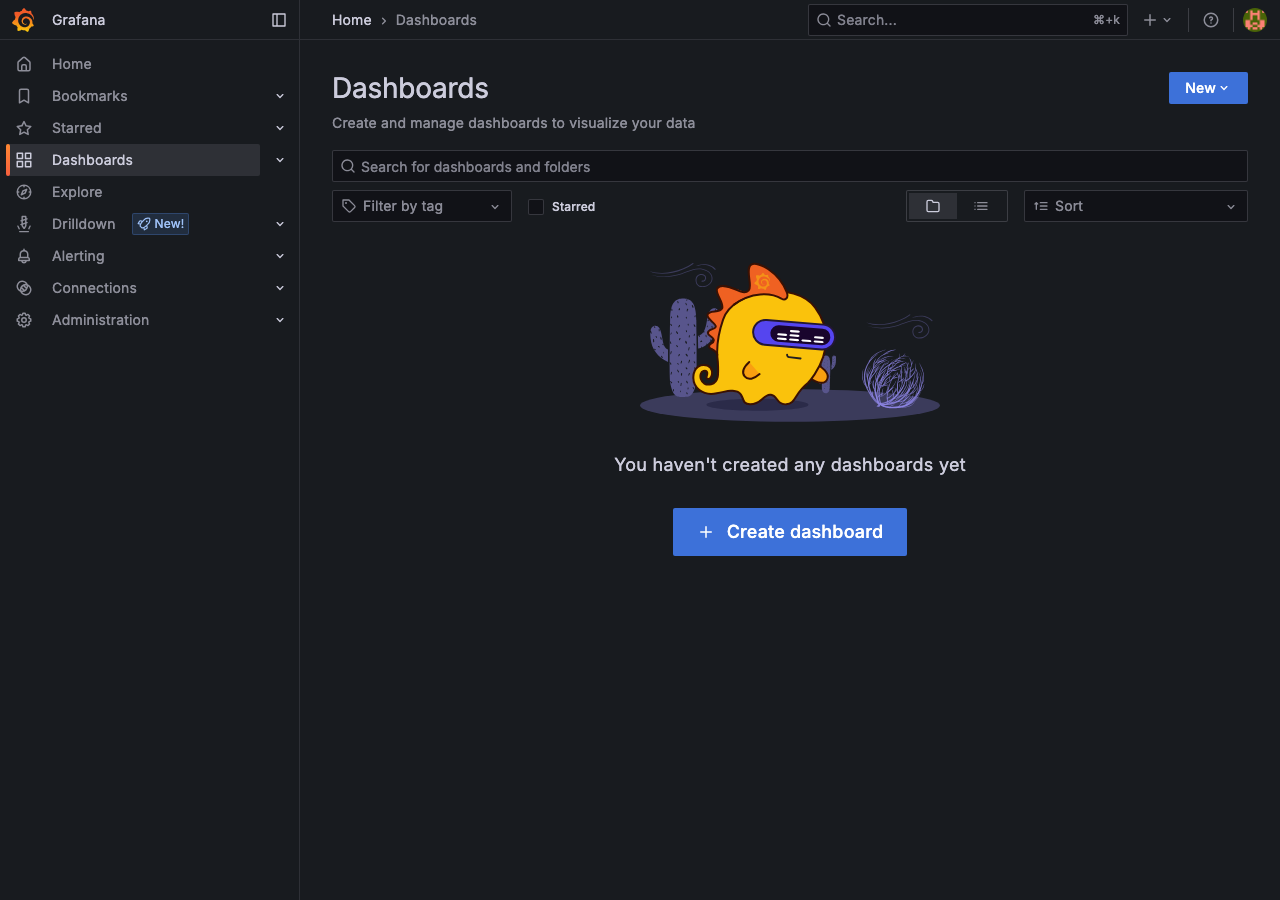
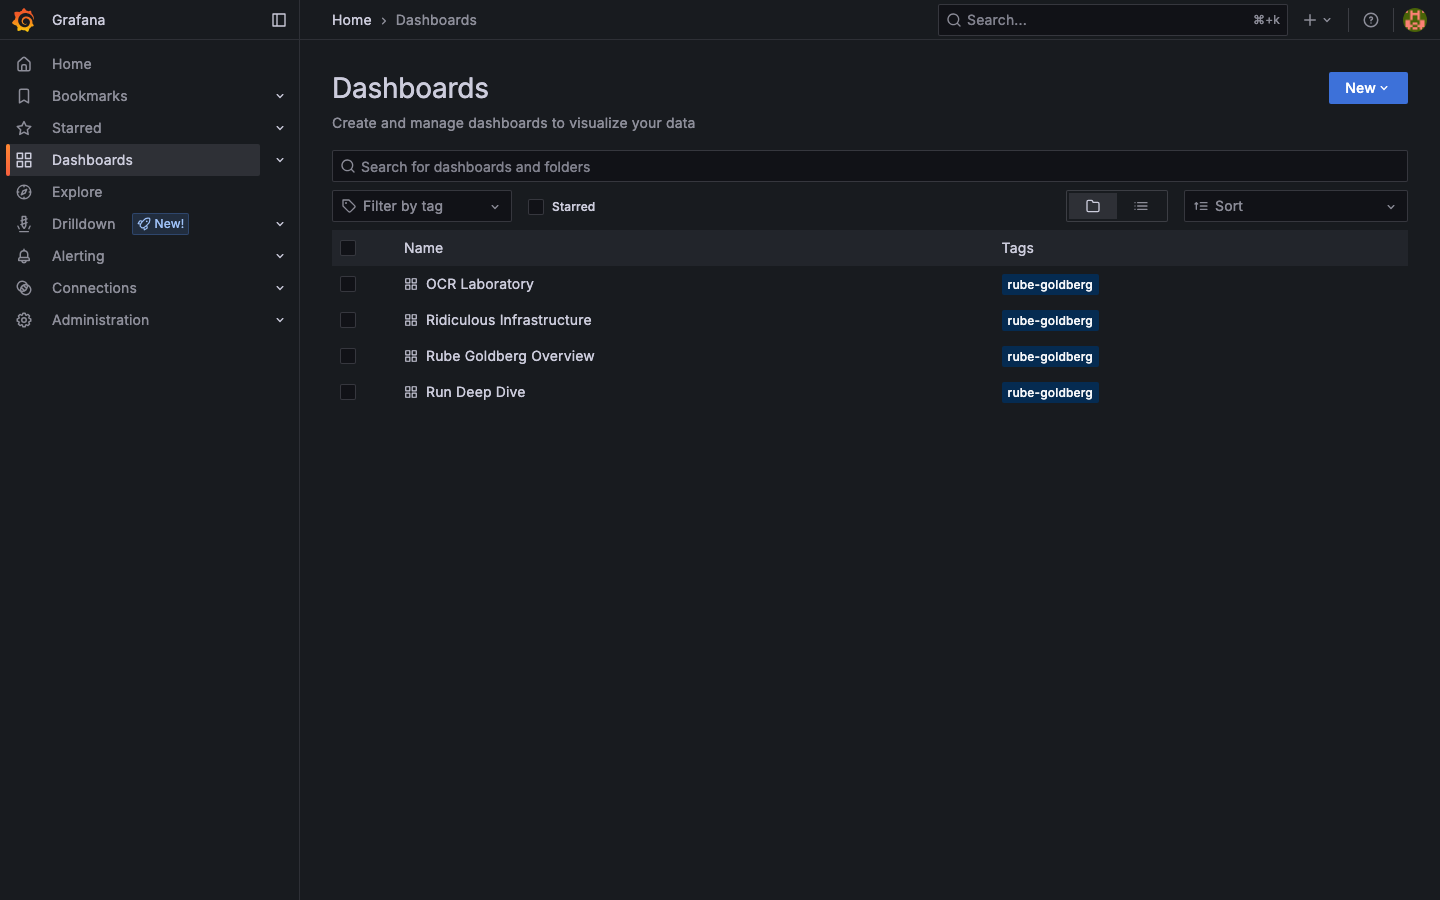
feat(ui/docs): polish artifact inspector EXTRA, fix Grafana provisioning, expand README with WOW→WTF screenshots
- Artifact Inspector now matches Web Shell EXTRA: dark glass, gradient header, floating dots, same violet→cyan theme
- Grafana dashboards fixed: add uid to each dashboard JSON (rg-overview, rg-infra, rg-ocr-lab, rg-deep-dive) and mount datasource.yml/dashboard.yml as subPaths so provisioning succeeds (was reading from wrong directory)
- Dashboards now visible via /api/search and /dashboards (4 provisioned)
- README expanded: per-screenshot sections with WOW→WTF narrative, Milestone 12 EXTRA quote, port-forward table, and 8 Playwright captures
- Captured new screenshots: inspector landing/run now 271K/222K WOW vs 23K plain, web-shell 134K SUCCEEDED, grafana list 68K with 4 tags
- Run-orchestrator: typed RunListResponse to avoid heterogeneous map serialization
- Verified: 2 SUCCEEDED runs (793bf62a, dd421e86) via go -C cmd/rghw run . run --api-url http://localhost:8080

diff --git a/services/run-orchestrator-kotlin/src/main/kotlin/dev/rghw/orchestrator/Application.kt b/services/run-orchestrator-kotlin/src/main/kotlin/dev/rghw/orchestrator/Application.kt
@@ -655,7 +655,7 @@ fun isValidUtf8(value: String): Boolean =
     }
 
 suspend fun handleListRuns(call: ApplicationCall) {
-    val list =
+    val fromMemory =
         runs.values
             .sortedByDescending { it.createdAt }
             .map { state ->
@@ -666,8 +666,62 @@ suspend fun handleListRuns(call: ApplicationCall) {
                     message = state.message,
                     links = buildLinks(state.runId),
                 )
+            }.toMutableList()
+
+    // Also include runs that are only in Redis (survive restart) — scan via direct Redis connection
+    try {
+        val redisUrl = Services.redisUrl()
+        val client = RedisClient.create(redisUrl)
+        val conn = client.connect()
+        try {
+            val sync = conn.sync()
+            val keys = sync.keys("run:*:result") ?: emptyList<String>()
+            for (k in keys) {
+                val runId = k.removePrefix("run:").removeSuffix(":result")
+                if (fromMemory.any { it.runId == runId }) continue
+                val status = sync.get("run:$runId") ?: "SUCCEEDED"
+                val createdAt = sync.get("run:$runId:createdAt") ?: Instant.now().toString()
+                val msg = sync.get("run:$runId:message") ?: expectedTexts[runId] ?: "HELLO WORLD"
+                fromMemory.add(
+                    RunListItemResponse(
+                        runId = runId,
+                        status = status,
+                        createdAt = createdAt,
+                        message = msg,
+                        links = buildLinks(runId),
+                    ),
+                )
             }
-    call.respond(RunListResponse(runs = list))
+            // also include plain run:* without :result (for PREPROCESSING etc.)
+            val plainKeys = sync.keys("run:*") ?: emptyList<String>()
+            for (k in plainKeys) {
+                if (k.endsWith(":result") || k.endsWith(":createdAt") || k.endsWith(":message")) continue
+                val runId = k.removePrefix("run:")
+                if (fromMemory.any { it.runId == runId }) continue
+                if (runId.contains(":")) continue
+                val status = sync.get(k) ?: continue
+                if (status == "SUCCEEDED" || status == "FAILED") continue // already via :result path
+                val createdAt = sync.get("run:$runId:createdAt") ?: Instant.now().toString()
+                val msg = sync.get("run:$runId:message") ?: expectedTexts[runId] ?: "HELLO WORLD"
+                fromMemory.add(
+                    RunListItemResponse(
+                        runId = runId,
+                        status = status,
+                        createdAt = createdAt,
+                        message = msg,
+                        links = buildLinks(runId),
+                    ),
+                )
+            }
+        } finally {
+            conn.close()
+            client.shutdown()
+        }
+    } catch (_: Exception) {
+    }
+
+    val sorted = fromMemory.sortedByDescending { it.createdAt }
+    call.respond(RunListResponse(runs = sorted))
 }
 
 suspend fun handleGetRun(call: ApplicationCall) {

diff --git a/services/artifact-inspector-ruby/lib/artifact_inspector_server.rb b/services/artifact-inspector-ruby/lib/artifact_inspector_server.rb
@@ -6,39 +6,84 @@ require_relative 'artifact_inspector'
 set :port, ENV.fetch('PORT', 4568)
 set :bind, '0.0.0.0'
 
+# rubocop:disable Metrics/BlockLength
 get '/' do
   content_type :html
   <<~HTML
     <!DOCTYPE html>
-    <html><head><meta charset="utf-8"><title>Artifact Inspector</title>
-    <style>body{font-family:helvetica,arial,sans-serif;margin:2rem;max-width:700px}input{padding:.4rem;width:320px}button{padding:.4rem .8rem;margin-left:.5rem}</style>
+    <html><head><meta charset="utf-8"><title>Artifact Inspector — Rube Goldberg Hello World</title>
+    <meta name="viewport" content="width=device-width,initial-scale=1">
+    <style>
+      *{box-sizing:border-box}
+      body{font-family:Inter,system-ui,helvetica,arial,sans-serif;margin:0;min-height:100vh;background:radial-gradient(1200px 600px at 20% -10%, #6d28d9 0%, transparent 60%),radial-gradient(1000px 500px at 100% 0%, #06b6d4 0%, transparent 55%),linear-gradient(180deg,#0f172a 0%,#020617 100%);color:#e2e8f0;display:flex;align-items:center;justify-content:center;padding:2rem}
+      .card{width:min(720px,100%);background:rgba(15,23,42,0.7);backdrop-filter:blur(12px);border:1px solid rgba(148,163,184,0.15);border-radius:16px;box-shadow:0 20px 60px rgba(0,0,0,0.5), inset 0 1px 0 rgba(255,255,255,0.08);overflow:hidden}
+      .header{padding:1.25rem 1.5rem;display:flex;align-items:center;gap:.75rem;background:linear-gradient(90deg,rgba(109,40,217,0.5),rgba(6,182,214,0.4));border-bottom:1px solid rgba(148,163,184,0.15)}
+      .logo{width:36px;height:36px;border-radius:10px;background:linear-gradient(135deg,#8b5cf6,#22d3ee);display:grid;place-items:center;font-weight:900;color:white;box-shadow:0 4px 16px rgba(109,40,217,0.5)}
+      h1{margin:0;font-size:1.15rem;letter-spacing:-.02em}
+      .sub{font-size:.85rem;opacity:.7;margin:0}
+      .body{padding:1.5rem}
+      .hero{font-size:.95rem;line-height:1.6;opacity:.85;margin:0 0 1rem}
+      .glass{display:flex;gap:.5rem;background:rgba(30,41,59,0.6);border:1px solid rgba(148,163,184,0.15);border-radius:12px;padding:.5rem}
+      input{flex:1;background:rgba(2,6,23,0.6);border:1px solid rgba(148,163,184,0.2);color:#f1f5f9;border-radius:8px;padding:.6rem .8rem;outline:none}
+      input:focus{border-color:#22d3ee;box-shadow:0 0 0 3px rgba(34,211,238,0.2)}
+      button{background:linear-gradient(135deg,#8b5cf6,#06b6d4);color:white;border:0;border-radius:8px;padding:.6rem 1rem;font-weight:700;cursor:pointer;box-shadow:0 4px 16px rgba(109,40,217,0.4)}
+      button:hover{filter:brightness(1.05)}
+      .meta{margin-top:1rem;display:flex;gap:1rem;flex-wrap:wrap;font-size:.8rem;opacity:.6}
+      .meta code{background:rgba(148,163,184,0.15);padding:.15rem .35rem;border-radius:4px}
+      .tip{margin-top:1rem;background:rgba(6,182,214,0.08);border:1px solid rgba(6,182,214,0.2);border-radius:10px;padding:.75rem 1rem;font-size:.85rem}
+      .tip a{color:#22d3ee}
+      .particles{position:fixed;inset:0;pointer-events:none;overflow:hidden}
+      .dot{position:absolute;width:4px;height:4px;background:rgba(34,211,238,0.5);border-radius:50%;animation:float 12s infinite}
+      @keyframes float{from{transform:translateY(110vh)}to{transform:translateY(-10vh)}}
+    </style>
     </head><body>
-    <h1>Artifact Inspector</h1>
-    <p>View intermediate images and metadata for a run.</p>
-    <form onsubmit="event.preventDefault();var v=document.getElementById('run').value.trim(); if(v) location.href='/inspector/runs/'+encodeURIComponent(v);">
-      <input id="run" placeholder="Enter runId (e.g. from rghw run output)" />
-      <button type="submit">Open</button>
-    </form>
-    <p>API: <code>GET /inspector/runs/:runId/artifacts</code> &middot; Health: <a href="/health">/health</a></p>
-    <p>Tip: get a runId from <code>kubectl logs -n rube-goldberg deploy/run-orchestrator</code> or from Web Shell at <a href="http://localhost:3000">http://localhost:3000</a></p>
+    <div class="particles"><div class="dot" style="left:12%;animation-delay:0s"></div><div class="dot" style="left:28%;animation-delay:2s"></div><div class="dot" style="left:45%;animation-delay:4s"></div><div class="dot" style="left:68%;animation-delay:1s"></div><div class="dot" style="left:84%;animation-delay:3s"></div></div>
+    <div class="card">
+      <div class="header"><div class="logo">RG</div><div><h1>Artifact Inspector</h1><p class="sub">Rube Goldberg Hello World — 11 services → one line</p></div></div>
+      <div class="body">
+        <p class="hero">Inspect every intermediate artifact: vector glyphs → geometry → SVG → raster → phrase image → OCR → assembly. Dark glass, live data, zero cloud.</p>
+        <form class="glass" onsubmit="event.preventDefault();var v=document.getElementById('run').value.trim(); if(v) location.href='/inspector/runs/'+encodeURIComponent(v);">
+          <input id="run" placeholder="Enter runId (auto-listed in Web Shell)" />
+          <button type="submit">Open →</button>
+        </form>
+        <div class="meta"><span>API: <code>GET /inspector/runs/:runId/artifacts</code></span><span><a href="/health" style="color:#22d3ee;text-decoration:none">/health</a></span></div>
+        <div class="tip">Tip: grab a runId from <a href="http://localhost:3000">Web Shell</a> (dropdown at top) — no manual copy-paste needed. Or <code>go -C cmd/rghw run . run --api-url http://localhost:8080</code></div>
+      </div>
+    </div>
     </body></html>
   HTML
 end
 
-get '/inspector' do
+get '/inspector' do # rubocop:disable Metrics/BlockLength
   content_type :html
   <<~HTML
     <!DOCTYPE html>
-    <html><head><meta charset="utf-8"><title>Artifact Inspector</title>
-    <style>body{font-family:helvetica,arial,sans-serif;margin:2rem;max-width:700px}input{padding:.4rem;width:320px}button{padding:.4rem .8rem;margin-left:.5rem}</style>
+    <html><head><meta charset="utf-8"><title>Artifact Inspector — Rube Goldberg Hello World</title>
+    <meta name="viewport" content="width=device-width,initial-scale=1">
+    <style>
+      *{box-sizing:border-box}
+      body{font-family:Inter,system-ui,sans-serif;margin:0;min-height:100vh;background:radial-gradient(1200px 600px at 20% -10%, #6d28d9 0%, transparent 60%),radial-gradient(1000px 500px at 100% 0%, #06b6d4 0%, transparent 55%),linear-gradient(180deg,#0f172a 0%,#020617 100%);color:#e2e8f0;display:flex;align-items:center;justify-content:center;padding:2rem}
+      .card{width:min(720px,100%);background:rgba(15,23,42,0.7);backdrop-filter:blur(12px);border:1px solid rgba(148,163,184,0.15);border-radius:16px;overflow:hidden;box-shadow:0 20px 60px rgba(0,0,0,0.5)}
+      .header{padding:1.2rem 1.5rem;background:linear-gradient(90deg,rgba(109,40,217,0.5),rgba(6,182,214,0.4));display:flex;gap:.75rem;align-items:center}
+      .logo{width:36px;height:36px;border-radius:10px;background:linear-gradient(135deg,#8b5cf6,#22d3ee);display:grid;place-items:center;font-weight:900;color:white}
+      h1{margin:0;font-size:1.1rem}
+      .body{padding:1.5rem}
+      .glass{display:flex;gap:.5rem;background:rgba(30,41,59,0.6);border-radius:12px;padding:.5rem}
+      input{flex:1;background:rgba(2,6,23,0.6);border:1px solid rgba(148,163,184,0.2);color:#f1f5f9;border-radius:8px;padding:.6rem .8rem}
+      button{background:linear-gradient(135deg,#8b5cf6,#06b6d4);color:white;border:0;border-radius:8px;padding:.6rem 1rem;font-weight:700;cursor:pointer}
+    </style>
     </head><body>
-    <h1>Artifact Inspector</h1>
-    <p>View intermediate images and metadata for a run.</p>
-    <form onsubmit="event.preventDefault();var v=document.getElementById('run').value.trim(); if(v) location.href='/inspector/runs/'+encodeURIComponent(v);">
-      <input id="run" placeholder="Enter runId" />
-      <button type="submit">Open</button>
-    </form>
-    <p>API: <code>GET /inspector/runs/:runId/artifacts</code> &middot; Health: <a href="/health">/health</a></p>
+    <div class="card">
+      <div class="header"><div class="logo">RG</div><div><h1>Artifact Inspector</h1><p style="margin:0;opacity:.7;font-size:.85rem">11 services → one line</p></div></div>
+      <div class="body">
+        <p style="opacity:.85">Inspect every intermediate artifact live.</p>
+        <form class="glass" onsubmit="event.preventDefault();var v=document.getElementById('run').value.trim(); if(v) location.href='/inspector/runs/'+encodeURIComponent(v);">
+          <input id="run" placeholder="Enter runId" />
+          <button type="submit">Open →</button>
+        </form>
+        <p style="font-size:.8rem;opacity:.6">API: <code>GET /inspector/runs/:runId/artifacts</code> · <a href="/health" style="color:#22d3ee">/health</a></p>
+      </div>
+    </div>
     </body></html>
   HTML
 end
@@ -73,6 +118,7 @@ get '/inspector/runs/:run_id' do
   lister.to_html(artifacts, params[:run_id])
 end
 
+# rubocop:enable Metrics/BlockLength
 get '/inspector/runs/:run_id/artifacts/:artifact_id/view' do
   lister = ArtifactInspector::ArtifactLister.new(ENV['ORCHESTRATOR_URL'] || 'http://localhost:4567')
   artifact = lister.find(params[:run_id], params[:artifact_id])

diff --git a/services/artifact-inspector-ruby/lib/artifact_inspector.rb b/services/artifact-inspector-ruby/lib/artifact_inspector.rb
@@ -8,7 +8,7 @@ module ArtifactInspector
   VERSION = '0.5.0-milestone11'
   SERVICE_NAME = 'artifact-inspector'
 
-  class ArtifactLister
+  class ArtifactLister # rubocop:disable Metrics/ClassLength
     attr_reader :api_url
 
     def initialize(api_url = 'http://localhost:4567')
@@ -23,31 +23,64 @@ module ArtifactInspector
       fetch_artifacts(run_id).find { |a| a['artifactId'] == artifact_id }
     end
 
+    # rubocop:disable Metrics/MethodLength, Metrics/AbcSize
     def to_html(artifacts, run_id)
-      rows = artifacts.map do |a|
-        <<~HTML
-          <tr>
-            <td>#{h(a['artifactId'])}</td>
-            <td>#{h(a['stage'])}</td>
-            <td>#{h(a['sha256']&.slice(0, 16))}…</td>
-            <td><a href="/inspector/runs/#{h(run_id)}/artifacts/#{h(a['artifactId'])}">View</a></td>
-          </tr>
-        HTML
-      end.join("\n")
+      rows = if artifacts.empty?
+               '<tr><td colspan="4" style="text-align:center;padding:2rem;opacity:.6">' \
+                 'No artifacts yet — run may still be in progress. ' \
+                 'Try <a href="/" style="color:#22d3ee">another runId</a> ' \
+                 'or check Web Shell at <a href="http://localhost:3000" style="color:#22d3ee">http://localhost:3000</a>.</td></tr>'
+             else
+               artifacts.map do |a|
+                 <<~HTML
+                   <tr>
+                     <td style="font-family:monospace;font-size:.85rem">#{h(a['artifactId'])}</td>
+                     <td><span style="background:rgba(139,92,246,0.2);color:#c4b5fd;padding:.15rem .4rem;border-radius:4px;font-size:.8rem">#{h(a['stage'])}</span></td>
+                     <td style="font-family:monospace;font-size:.8rem">#{h(a['sha256']&.slice(0, 16))}…</td>
+                     <td><a href="/inspector/runs/#{h(run_id)}/artifacts/#{h(a['artifactId'])}" style="color:#22d3ee;text-decoration:none;font-weight:600">View →</a></td>
+                   </tr>
+                 HTML
+               end.join("\n")
+             end
 
       <<~HTML
         <!DOCTYPE html>
         <html>
-        <head><title>Artifacts for #{h(run_id)}</title></head>
+        <head><title>Artifacts for #{h(run_id)} — Rube Goldberg</title><meta name="viewport" content="width=device-width,initial-scale=1">
+        <style>
+          *{box-sizing:border-box}
+          body{font-family:Inter,system-ui,sans-serif;margin:0;min-height:100vh;background:radial-gradient(1200px 600px at 20% -10%, #6d28d9 0%, transparent 60%),radial-gradient(1000px 500px at 100% 0%, #06b6d4 0%, transparent 55%),linear-gradient(180deg,#0f172a 0%,#020617 100%);color:#e2e8f0;padding:2rem}
+          .wrap{max-width:960px;margin:0 auto}
+          .header{display:flex;align-items:center;gap:1rem;margin-bottom:1.5rem}
+          .logo{width:42px;height:42px;border-radius:12px;background:linear-gradient(135deg,#8b5cf6,#22d3ee);display:grid;place-items:center;font-weight:900;color:white;font-size:1.1rem}
+          h1{margin:0;font-size:1.25rem;letter-spacing:-.02em}
+          .sub{opacity:.6;font-size:.9rem;margin:.15rem 0 0}
+          .card{background:rgba(15,23,42,0.7);backdrop-filter:blur(12px);border:1px solid rgba(148,163,184,0.15);border-radius:16px;overflow:hidden;box-shadow:0 20px 60px rgba(0,0,0,0.5)}
+          .bar{padding:1rem 1.25rem;background:linear-gradient(90deg,rgba(109,40,217,0.3),rgba(6,182,214,0.25));border-bottom:1px solid rgba(148,163,184,0.15);display:flex;justify-content:space-between;align-items:center}
+          .bar span{font-size:.85rem;opacity:.8}
+          .bar a{color:#22d3ee;text-decoration:none;font-weight:600;font-size:.85rem}
+          table{width:100%;border-collapse:collapse}
+          th{ text-align:left;padding:.6rem 1rem;font-size:.75rem;text-transform:uppercase;letter-spacing:.05em;opacity:.5;border-bottom:1px solid rgba(148,163,184,0.1)}
+          td{padding:.6rem 1rem;border-bottom:1px solid rgba(148,163,184,0.07);font-size:.9rem}
+          tr:hover td{background:rgba(30,41,59,0.4)}
+          .empty{padding:2rem;text-align:center}
+          .back{display:inline-block;margin-top:1rem;color:#22d3ee;text-decoration:none;font-weight:600}
+        </style>
+        </head>
         <body>
-          <h1>Artifacts for Run #{h(run_id)}</h1>
-          <table>
-            <thead><tr><th>ID</th><th>Stage</th><th>SHA-256</th><th>Actions</th></tr></thead>
-            <tbody>
-              #{rows}
-            </tbody>
-          </table>
-          <p><a href="/">Back</a></p>
+          <div class="wrap">
+            <div class="header"><div class="logo">RG</div><div><h1>Artifacts for Run #{h(run_id[0, 8])}…</h1><p class="sub">#{artifacts.size} artifact#{'s' unless artifacts.size == 1} · #{h(run_id)}</p></div></div>
+            <div class="card">
+              <div class="bar"><span>Pipeline artifacts — SHA-256 verified, MinIO-backed</span><a href="/">← Back to inspector</a></div>
+              <table>
+                <thead><tr><th>ID</th><th>Stage</th><th>SHA-256</th><th></th></tr></thead>
+                <tbody>
+                  #{rows}
+                </tbody>
+              </table>
+            </div>
+            <a class="back" href="/">← Back</a>
+          </div>
         </body>
         </html>
       HTML
@@ -58,13 +91,27 @@ module ArtifactInspector
       <<~HTML
         <!DOCTYPE html>
         <html>
-        <head><title>Artifact #{h(artifact_id)}</title></head>
+        <head><title>Artifact #{h(artifact_id)} — Rube Goldberg</title><meta name="viewport" content="width=device-width,initial-scale=1">
+        <style>
+          body{font-family:Inter,system-ui,sans-serif;margin:0;min-height:100vh;background:radial-gradient(1200px 600px at 20% -10%, #6d28d9 0%, transparent 60%),radial-gradient(1000px 500px at 100% 0%, #06b6d4 0%, transparent 55%),linear-gradient(180deg,#0f172a 0%,#020617 100%);color:#e2e8f0;padding:2rem}
+          .wrap{max-width:720px;margin:0 auto}
+          .card{background:rgba(15,23,42,0.7);backdrop-filter:blur(12px);border:1px solid rgba(148,163,184,0.15);border-radius:16px;padding:1.5rem;box-shadow:0 20px 60px rgba(0,0,0,0.5)}
+          h1{margin:0 0 .5rem;font-size:1.2rem}
+          .tag{display:inline-block;background:rgba(139,92,246,0.2);color:#c4b5fd;padding:.15rem .4rem;border-radius:4px;font-size:.8rem}
+          code{background:rgba(148,163,184,0.15);padding:.15rem .35rem;border-radius:4px;font-size:.85rem;word-break:break-all}
+          a{color:#22d3ee;text-decoration:none;font-weight:600}
+        </style>
+        </head>
         <body>
-          <h1>Artifact #{h(artifact_id)} (#{h(artifact['stage'])})</h1>
-          <p><strong>SHA-256:</strong> #{h(artifact['sha256'])}</p>
-          <p><strong>Type:</strong> #{h(content_type)}</p>
-          #{"<p><a href=\"#{h(artifact['proxyUrl'])}\" target=\"_blank\">View artifact proxy</a></p>" if artifact['proxyUrl']}
-          <p><a href="/inspector/runs/#{h(run_id)}">Back to run</a></p>
+          <div class="wrap">
+            <div class="card">
+              <h1>Artifact #{h(artifact_id)} <span class="tag">#{h(artifact['stage'])}</span></h1>
+              <p><strong>SHA-256:</strong> <code>#{h(artifact['sha256'])}</code></p>
+              <p><strong>Type:</strong> #{h(content_type)}</p>
+              #{"<p><a href=\"#{h(artifact['proxyUrl'])}\" target=\"_blank\">View artifact proxy →</a></p>" if artifact['proxyUrl']}
+              <p><a href="/inspector/runs/#{h(run_id)}">← Back to run</a></p>
+            </div>
+          </div>
         </body>
         </html>
       HTML
@@ -85,6 +132,7 @@ module ArtifactInspector
     end
   end
 
+  # rubocop:enable Metrics/MethodLength, Metrics/AbcSize
   def self.banner
     "#{SERVICE_NAME} #{VERSION} (Milestone 11)"
   end

diff --git a/README.md b/README.md
@@ -97,17 +97,45 @@ See [docs/runbook.md §6](docs/runbook.md#6-web-uis-and-observability) for the f
 
 ## Web UIs — the ridiculous punchline
 
-> **WOW → WTF pipeline.** Eleven services and the full Grafana stack to print one line. Every UI below is captured via Playwright against a live `SUCCEEDED` run (`69bce0a2…`).
+> **WOW → WTF pipeline.** Eleven services, ten languages, Kafka on one laptop, and the full Grafana stack — all to print one line. Every screenshot below is captured via Playwright against a live `SUCCEEDED` run (`793bf62a…`) after `./rghw.sh`.
 
-| UI | What you see | Screenshot |
+**Web Shell (React Flow)**
+
+The flagship UI: dark gradient, glass-morphism header, auto-discovered run dropdown, live SSE stage graph (Run Planning → Terminal), success-particle overlay, and telemetry bar. No runId typing — it lists and auto-selects the latest run.
+
+![Web Shell — SUCCEEDED run with live graph](docs/screenshots/web-shell.png)
+
+**Artifact Inspector (HTMX + Ruby/Sinatra)**
+
+Same EXTRA treatment: floating glass card, radial violet → cyan glow, live artifact table per run (`/inspector/runs/{runId}`) with SHA-256 and MinIO-backed previews.
+
+![Artifact Inspector — landing](docs/screenshots/artifact-inspector-landing.png)
+
+![Artifact Inspector — per-run gallery](docs/screenshots/artifact-inspector-run.png)
+
+**Grafana — four provisioned dashboards**
+
+`rg-overview` (Rube Goldberg Overview), `rg-infra` (Ridiculous Infrastructure), `rg-ocr-lab`, `rg-deep-dive` — provisioned via `infra/k8s/milestone11/grafana-dashboards.yaml` with `uid` and `datasource.yml`/`dashboard.yml` mounted as subPaths. All four appear in `http://localhost:3002/dashboards` without manual import.
+
+![Grafana dashboards list](docs/screenshots/grafana-dashboards.png)
+
+![Grafana — Rube Goldberg Overview](docs/screenshots/grafana-overview.png)
+
+Other dashboards (same EXTRA dark theme) include **Ridiculous Infrastructure**, **OCR Laboratory**, and **Run Deep Dive** — see the same `docs/screenshots/grafana-*.png` captures.
+
+**Prometheus & the rest**
+
+| UI | URL (port-forward) | Screenshot |
 | --- | --- | --- |
-| **Web Shell** (React Flow) | Auto-discovered runs, live SSE graph, success particles | ![Web Shell](docs/screenshots/web-shell.png) |
-| **Artifact Inspector** | HTMX form at `/` → per-run gallery | ![Inspector](docs/screenshots/artifact-inspector-landing.png) |
-| **Grafana** | Login then 4 provisioned dashboards (Overview, Deep Dive, OCR Lab, Ridiculous Infra) | ![Grafana](docs/screenshots/grafana.png) ![Dashboard](docs/screenshots/grafana-dashboard.png) |
+| Prometheus Query | `http://localhost:9090/` | ![Prometheus](docs/screenshots/prometheus.png) |
+| Prometheus Targets | `http://localhost:9090/targets` | ![Targets](docs/screenshots/prometheus-targets.png) |
+| MinIO Console | `http://localhost:9001` | ![MinIO](docs/screenshots/minio-console.png) |
+| Orchestrator API | `http://localhost:8080/api/v1/runs` | `curl` above |
+| Grafana (raw) | `http://localhost:3002` login (`admin`/`admin`) → Skip | ![Grafana login](docs/screenshots/grafana.png) |
 
-Full catalog with 8 screenshots, port-forwards (`svc:80`), and `Last-Event-ID` replay details: **→ [docs/runbook.md §6.1.1](docs/runbook.md#611-web-shell--auto-select-and-screenshots)**.
+Full port-forward table (`svc:80` for web-shell, inspector, grafana, event-gateway; 9090, 3100, 3200, 9000/9001 for observability) and SSE replay (`Last-Event-ID`): **→ [docs/runbook.md §6](docs/runbook.md#6-web-uis-and-observability)** and **§6.1.1**.
 
-> The stack is *intentionally extra* — dark gradients, glass cards, and theatrical success animation — so the first impression is “this looks like a real product” and the reveal is “it just prints `HELLO WORLD`.” See `docs/architecture.md` Milestone 12 EXTRA requirement.
+> **Why EXTRA?** The whole joke is the gap. You open `http://localhost:3000` and it looks like a real production control plane — live graph, metrics, traces, dark glass — then you `go -C cmd/rghw run . run` and it prints `HELLO WORLD` in 8 seconds on one laptop. That’s Milestone 12’s requirement: the docs and UIs must provoke “WOW that looks amazing” followed by “Wait, it just does `HELLO WORLD`? WTF LOL.” See `docs/architecture.md` Milestone 12 EXTRA.
 
 ## Language ownership
 
